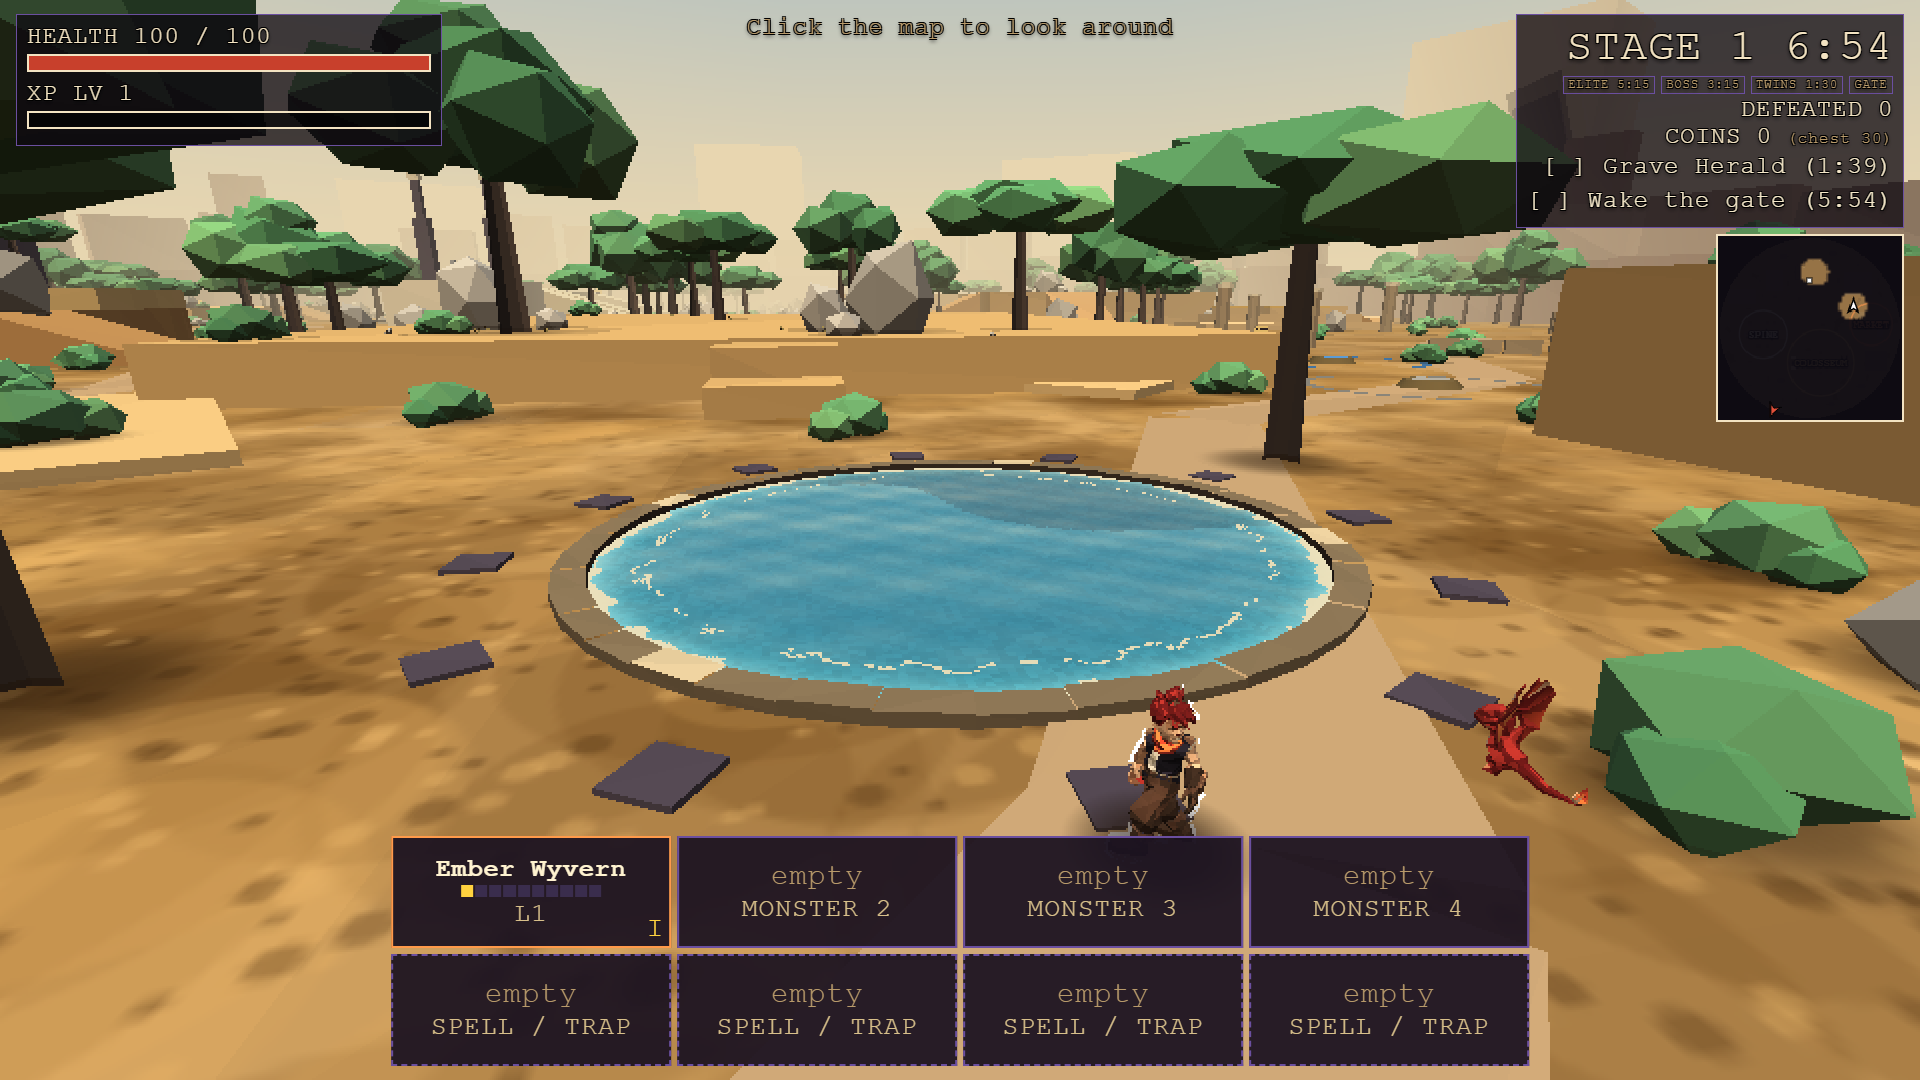
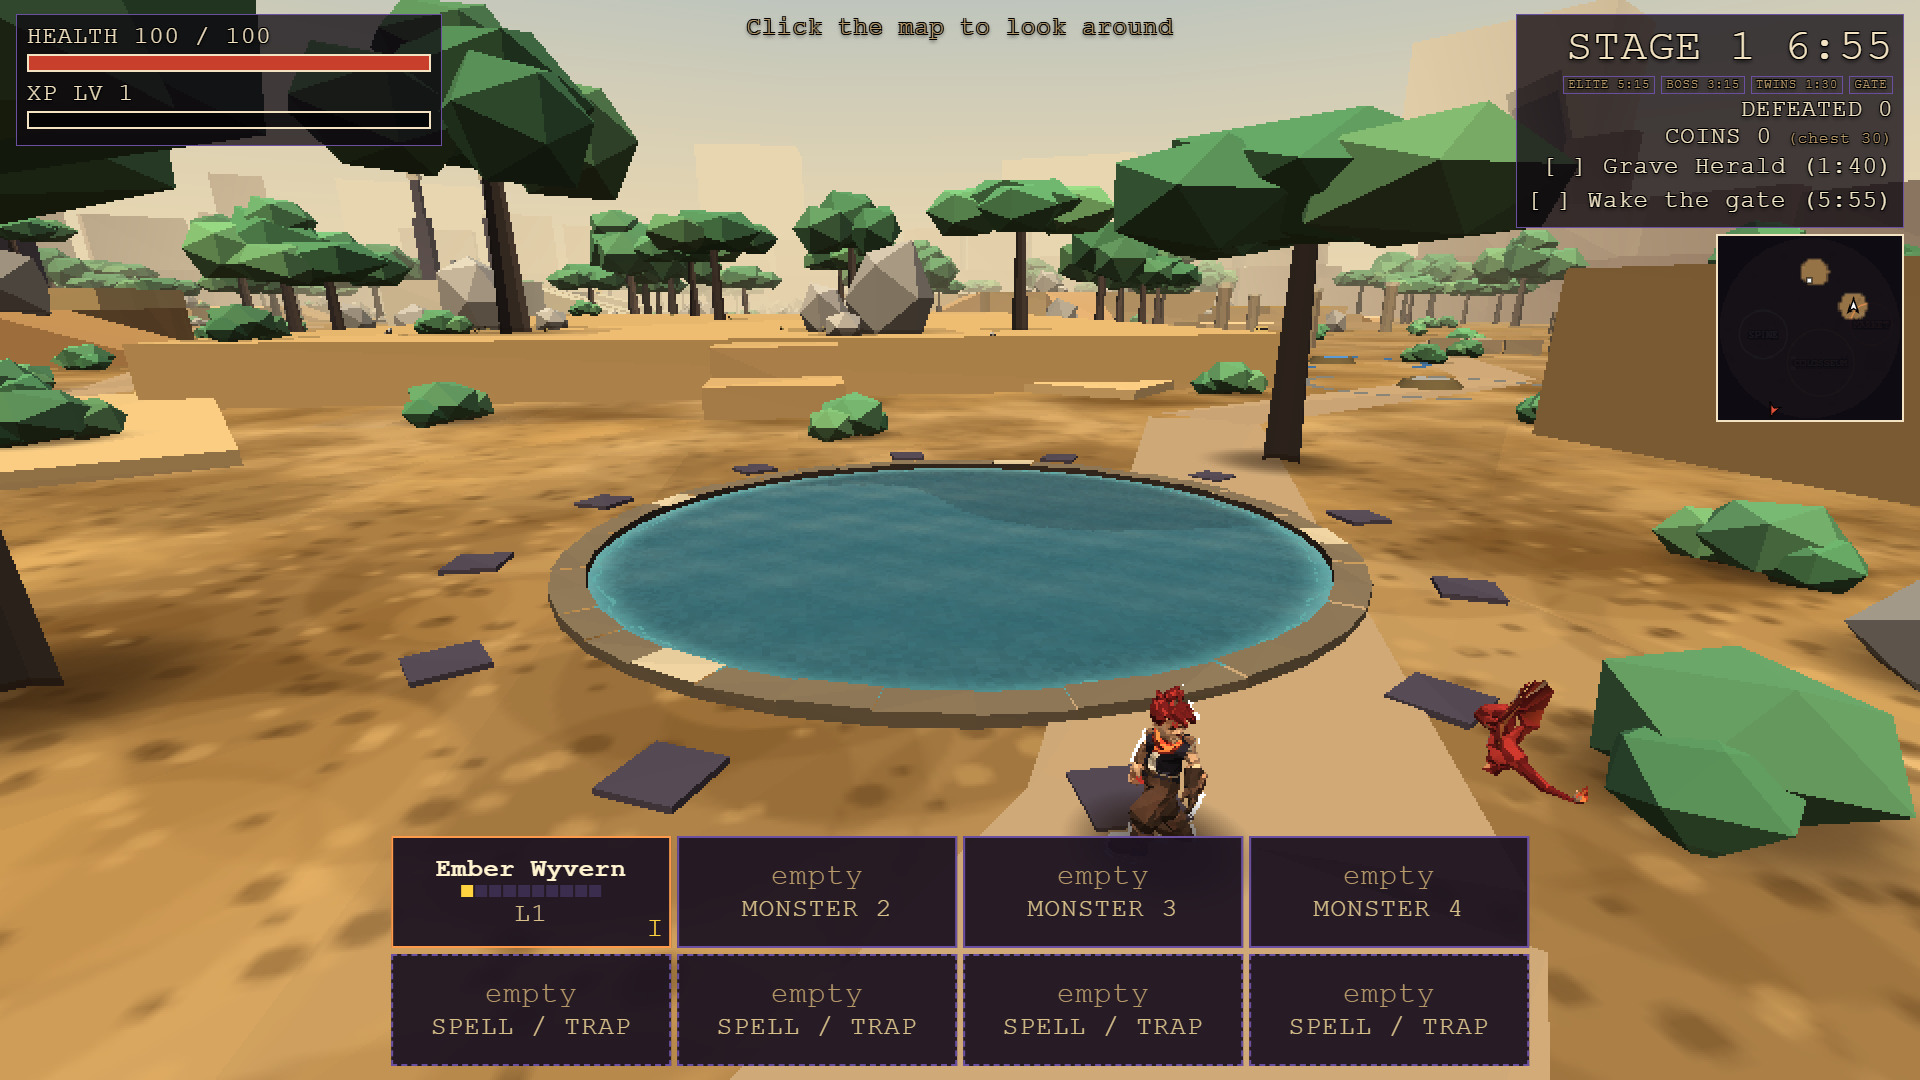
Colour corrections: deep blue-teal Stage 1 water, thin foam, enemy stand-ins from the enemy palette
Stage 1 water is now a deep blue-teal (body 2c5c60, deep 1f4f5a, light tone 62aea8 only in the glitter and shallow edge) with the sky reflection halved; measured against XP cyan 46e0ff the nearest water pixel is 29 delta E, the first percentile 39.5. Foam is a thin broken line lapping at the rim. Every swarm kind and boss stand-in colour comes from the enemy palette (dust 4a4034 6e604c 9a8a70, grave 2a3038 4a5260 7a8290); BOSS_COLORS in data/enemies.js; new test/enemycolors.test.js fails if any enemy or boss base colour is within 20 delta E of gold, XP cyan, violet, danger red or white. Palette strength 0 and 1 pictures for all three stages in design/screens/engine. Reserved colours through the lookup table: exact values come back with delta E 0 on all three stages.

Claude-Session: https://claude.ai/code/session_01G4m5sPDpcSeznt8KShqd9B

diff --git a/duelsummoner/src/data/enemies.js b/duelsummoner/src/data/enemies.js
@@ -3,17 +3,19 @@
 import { SCALE } from './scale.js';
 const R = k => SCALE.swarm[k].r;                                   // hit and contact radius come from the one SCALE table
 export const KINDS = {
-  husk:   { id: 0, name: 'Dust Husk',   hp: 4,  speed: 4.2, touch: 8, radius: R('husk'), reach: 1.45, color: 0x5a6b4a, scale: [1, 1.25, 1], eye: true },
-  runner: { id: 1, name: 'Husk Runner', hp: 2,  speed: 7.0, touch: 5, radius: R('runner'), reach: 1.3, color: 0xa8683a, scale: [0.7, 1.0, 0.7], eye: true },
-  seer:   { id: 2, name: 'Glass Seer',  hp: 8,  speed: 2.5, touch: 0, radius: R('seer'), reach: 1.2, color: 0x7aa8c8, scale: [0.8, 1.8, 0.8],
+  husk:   { id: 0, name: 'Dust Husk',   hp: 4,  speed: 4.2, touch: 8, radius: R('husk'), reach: 1.45, color: 0x6e604c, scale: [1, 1.25, 1], eye: true },
+  runner: { id: 1, name: 'Husk Runner', hp: 2,  speed: 7.0, touch: 5, radius: R('runner'), reach: 1.3, color: 0x9a8a70, scale: [0.7, 1.0, 0.7], eye: true },
+  seer:   { id: 2, name: 'Glass Seer',  hp: 8,  speed: 2.5, touch: 0, radius: R('seer'), reach: 1.2, color: 0x7a8290, scale: [0.8, 1.8, 0.8],
             shot: { dmg: 9, every: 3.4, telegraph: 0.8, speed: 20, life: 1.1, radius: 0.8, keepMin: 8, keepMax: 14, range: 18, width: 0.9 } },   // was dmg 12, every 2.6, speed 26
-  golem:  { id: 3, name: 'Ram Golem',   hp: 30, speed: 3.0, touch: 0, radius: R('golem'), reach: 1.6, color: 0x8a8278, scale: [1.5, 1.3, 1.5],
+  golem:  { id: 3, name: 'Ram Golem',   hp: 30, speed: 3.0, touch: 0, radius: R('golem'), reach: 1.6, color: 0x4a5260, scale: [1.5, 1.3, 1.5],
             rush: { dmg: 25, speed: 16, telegraph: 1.0, duration: 1.0, cooldown: 6, trigger: 18, width: 2.6 } },
-  bloat:  { id: 4, name: 'Sand Bloat',  hp: 10, speed: 3.5, touch: 0, radius: R('bloat'), reach: 1.5, color: 0xd88a3a, scale: [1.3, 1.1, 1.3],
+  bloat:  { id: 4, name: 'Sand Bloat',  hp: 10, speed: 3.5, touch: 0, radius: R('bloat'), reach: 1.5, color: 0x4a4034, scale: [1.3, 1.1, 1.3],
             blast: { radius: 3, dmg: 20, fuse: 0.7, trigger: 2.4 } },
-  hunter: { id: 6, name: 'Overtime Hunter', hp: 12, speed: 6.0, touch: 10, radius: R('hunter'), reach: 1.5, color: 0xb03060, scale: [0.95, 1.5, 0.95], eye: true },
-  scarab: { id: 5, name: 'Tomb Scarab', hp: 5,  speed: 5.0, touch: 6, radius: R('scarab'), reach: 1.3, color: 0xd8b24a, scale: [0.8, 0.4, 1.0], fly: true, hover: 1.2 }
+  hunter: { id: 6, name: 'Overtime Hunter', hp: 12, speed: 6.0, touch: 10, radius: R('hunter'), reach: 1.5, color: 0x2a3038, scale: [0.95, 1.5, 0.95], eye: true },
+  scarab: { id: 5, name: 'Tomb Scarab', hp: 5,  speed: 5.0, touch: 6, radius: R('scarab'), reach: 1.3, color: 0x7a8290, scale: [0.8, 0.4, 1.0], fly: true, hover: 1.2 }
 };
+// the boss stand-ins' colours, from the enemy palette only (dust, grave, bone): gold, XP cyan, violet and danger red are never an enemy colour
+export const BOSS_COLORS = { warden: { body: 0x4a5260, head: 0x9a8a70, shield: 0x7a8290 }, idol: { body: 0x6e604c, ear: 0x2a3038 }, pharaoh: { robe: 0x2a3038, head: 0x9a8a70, crown: 0x4a5260, blade: 0x7a8290 } };
 export const KIND_LIST = Object.values(KINDS).sort((a, b) => a.id - b.id);   // indexed by id
 
 export const SPECIALS = {

diff --git a/duelsummoner/src/view/actors.js b/duelsummoner/src/view/actors.js
@@ -1,7 +1,7 @@
 // Everything that moves in the scene: duelist, field monsters, the swarm (instanced per kind), elites and the boss,
 // telegraphs and effects, pickups. Positions are blended between the last two sim ticks so any refresh rate looks smooth.
 import { CFG } from '../data/config.js';
-import { KIND_LIST } from '../data/enemies.js';
+import { KIND_LIST, BOSS_COLORS as BC } from '../data/enemies.js';
 import { MONSTERS, FUSIONS, formOf } from '../data/cards.js';
 import { MAP } from '../data/map.js';
 import { SCALE, summonSize } from '../data/scale.js';
@@ -189,19 +189,19 @@ export class Actors {
   _specialMesh(sp) {
     const g = new T.Group(), r = sp.radius;
     if (sp.kind === 'warden') {
-      const body = new T.Mesh(new T.BoxGeometry(1.8, 2.6, 1.4), lambert(0x8a8278)); body.position.y = 1.3;
-      const head = new T.Mesh(new T.BoxGeometry(0.9, 0.8, 0.9), lambert(0xb9a98a)); head.position.y = 3.0;
-      const shield = new T.Mesh(new T.BoxGeometry(2.6, 3.0, 0.3), lambert(0xe0b765)); shield.position.set(0, 1.6, 1.0);
+      const body = new T.Mesh(new T.BoxGeometry(1.8, 2.6, 1.4), lambert(BC.warden.body)); body.position.y = 1.3;
+      const head = new T.Mesh(new T.BoxGeometry(0.9, 0.8, 0.9), lambert(BC.warden.head)); head.position.y = 3.0;
+      const shield = new T.Mesh(new T.BoxGeometry(2.6, 3.0, 0.3), lambert(BC.warden.shield)); shield.position.set(0, 1.6, 1.0);
       g.add(body, head, shield);
     } else if (sp.kind === 'idol') {
-      const body = new T.Mesh(new T.OctahedronGeometry(0.95, 0), lambert(0xc9a04a)); body.position.y = 1.0; body.scale.set(0.8, 1.2, 1.4);
-      const e1 = cone(0.18, 0.7, 0x4a3a2a), e2 = cone(0.18, 0.7, 0x4a3a2a); e1.rotation.x = e2.rotation.x = 0; e1.position.set(-0.3, 2.1, 0.5); e2.position.set(0.3, 2.1, 0.5);
+      const body = new T.Mesh(new T.OctahedronGeometry(0.95, 0), lambert(BC.idol.body)); body.position.y = 1.0; body.scale.set(0.8, 1.2, 1.4);
+      const e1 = cone(0.18, 0.7, BC.idol.ear), e2 = cone(0.18, 0.7, BC.idol.ear); e1.rotation.x = e2.rotation.x = 0; e1.position.set(-0.3, 2.1, 0.5); e2.position.set(0.3, 2.1, 0.5);
       g.add(body, e1, e2);
     } else {
-      const robe = new T.Mesh(new T.ConeGeometry(1.5, 4.2, 7), lambert(0x6a5a8a)); robe.position.y = 2.1;
-      const head = new T.Mesh(new T.BoxGeometry(0.9, 1.0, 0.9), lambert(0xd8c8a0)); head.position.y = 4.5;
-      const crown = new T.Mesh(new T.ConeGeometry(0.7, 0.9, 5), lambert(0xe8b84a)); crown.position.y = 5.3;
-      const blade = new T.Mesh(new T.BoxGeometry(0.2, 0.2, 4.2), lambert(0xe8e8f0)); blade.position.set(1.3, 2.6, 2.0);
+      const robe = new T.Mesh(new T.ConeGeometry(1.5, 4.2, 7), lambert(BC.pharaoh.robe)); robe.position.y = 2.1;
+      const head = new T.Mesh(new T.BoxGeometry(0.9, 1.0, 0.9), lambert(BC.pharaoh.head)); head.position.y = 4.5;
+      const crown = new T.Mesh(new T.ConeGeometry(0.7, 0.9, 5), lambert(BC.pharaoh.crown)); crown.position.y = 5.3;
+      const blade = new T.Mesh(new T.BoxGeometry(0.2, 0.2, 4.2), lambert(BC.pharaoh.blade)); blade.position.set(1.3, 2.6, 2.0);
       g.add(robe, head, crown, blade);
     }
     g.userData.parts = g.children.slice();

diff --git a/duelsummoner/src/view/water.js b/duelsummoner/src/view/water.js
@@ -42,15 +42,15 @@ void main() {
   vec3 c = mix(bed, uWatS, (1.0 - exp(-dep * 2.6)) * 0.6); c = mix(c, uWatD, 1.0 - exp(-dep * 1.05));
   vec3 Rf = reflect(V, n); Rf.y = abs(Rf.y) + 0.02; Rf = normalize(Rf);
   vec3 rc = skyBase(Rf);
-  float F0 = 0.07; c = mix(c, rc, F0 + (1.0 - F0) * pow(1.0 - max(dot(n, -V), 0.0), 4.0));
+  float F0 = 0.07; c = mix(c, rc, 0.5 * (F0 + (1.0 - F0) * pow(1.0 - max(dot(n, -V), 0.0), 4.0)));
   float tw = hsh(floor(p * 8.0) + floor(uT * 10.0) * vec2(7.0, 3.0)), lobe = pow(max(dot(normalize(Rf.xz + 1e-5), normalize(uSunD.xz)), 0.0), 18.0) * smoothstep(0.0, 0.5, 1.0 - Rf.y);
-  c += mix(uSunK, uSkyH, 0.45) * (step(1.0 - lobe * (0.55 + 0.5 * g), tw) * 1.1 + step(0.9985, tw) * 0.3);      // sun glitter: a band toward the sun, twinkling per texel, in the light tone of the sky
+  c += uWatL * (step(1.0 - lobe * (0.55 + 0.5 * g), tw) * 0.9 + step(0.9985, tw) * 0.25);      // sun glitter: a band toward the sun, twinkling per texel, in the light tone of the sky
   c += uWatS * 0.16 * step(0.55, g);                                                           // a gust shows as a paler patch
   float fn = N(p * 0.19 + vec2(4.0, 2.0) / 512.0 * uT).r, lap = 0.5 + 0.5 * sin(uT * 1.4 + dep * 18.0 + fn * 4.0);
-  float foam = step(dep + (fn - 0.5) * 0.12, 0.03 + 0.05 * lap);                               // the foam line laps in and out at the rim
-  foam = max(foam, step(abs(dep - 0.3 - 0.1 * lap + (fn - 0.5) * 0.2), 0.024) * step(0.5, fn) * step(0.35, lap));
+  float fb = N(p * 0.45 + vec2(9.0, 5.0) / 512.0 * uT).g;                                       // a thin broken line (1 to 2 game pixels) that laps in and out at the rim
+  float foam = step(abs(dep + (fn - 0.5) * 0.05 - (0.04 + 0.05 * lap)), 0.011) * step(0.32, fb);
   c *= 1.0 + max(rf, -1.0) * step(rf, 0.0) * 0.3; foam = max(foam, clamp(rf, 0.0, 1.0) * 0.55);
-  c = mix(c, max(uSunK * 0.55 + uSkyH * 0.5, uSkyH * 0.85) * vec3(0.96, 0.98, 1.0), foam * 0.9);
+  c = mix(c, uWatL, foam * 0.85);
   gl_FragColor = vec4(c, 1.0);
   #include <fog_fragment>
 }`;

diff --git a/duelsummoner/test/enemycolors.test.js b/duelsummoner/test/enemycolors.test.js
@@ -1,0 +1,13 @@
+// Enemy colours (art-direction rule): gold, XP cyan, violet and danger red are reserved and never an enemy colour. Every swarm kind's and every boss stand-in's base colour must be at least 20 delta E from each of them.
+import test from 'node:test'; import assert from 'node:assert/strict';
+import { KIND_LIST, BOSS_COLORS } from '../src/data/enemies.js';
+const lab = c => { const f = v => { v /= 255; return v > 0.04045 ? Math.pow((v + 0.055) / 1.055, 2.4) : v / 12.92; }, r = f((c >> 16) & 255), g = f((c >> 8) & 255), b = f(c & 255); const X = (0.4124 * r + 0.3576 * g + 0.1805 * b) / 0.95047, Y = 0.2126 * r + 0.7152 * g + 0.0722 * b, Z = (0.0193 * r + 0.1192 * g + 0.9505 * b) / 1.08883, h = t => (t > 0.008856 ? Math.cbrt(t) : 7.787 * t + 16 / 116); return [116 * h(Y) - 16, 500 * (h(X) - h(Y)), 200 * (h(Y) - h(Z))]; };
+const dE = (a, b) => { const p = lab(a), q = lab(b); return Math.sqrt((p[0] - q[0]) ** 2 + (p[1] - q[1]) ** 2 + (p[2] - q[2]) ** 2); };
+const RESERVED = { gold: 0xe0b765, goldLight: 0xfff0b8, xp: 0x46e0ff, violet: 0xb26bff, violetLight: 0xf4ecff, danger: 0xff3b30, white: 0xffffff };
+test('no enemy kind or boss stand-in colour is within 20 delta E of a reserved colour', () => {
+  const all = KIND_LIST.map(k => [k.name, k.color]); for (const [b, o] of Object.entries(BOSS_COLORS)) for (const [p, c] of Object.entries(o)) all.push([b + '.' + p, c]);
+  for (const [n, c] of all) for (const [rn, rc] of Object.entries(RESERVED)) assert.ok(dE(c, rc) >= 20, n + ' ' + c.toString(16) + ' is ' + dE(c, rc).toFixed(1) + ' from ' + rn);
+});
+test('every swarm kind keeps its own look: no two kinds share both colour and silhouette scale', () => {
+  const seen = new Set(); for (const k of KIND_LIST) { const key = k.color + ':' + k.scale.join(','); assert.ok(!seen.has(key), k.name + ' repeats another kind'); seen.add(key); }
+});

diff --git a/duelsummoner/src/data/look.js b/duelsummoner/src/data/look.js
@@ -2,7 +2,7 @@
 // ramp: null keeps each primitive's own colour; otherwise a primitive's original colour (p.c0) is mapped by its brightness onto this ramp of palette colours, dark to light.
 // sky: top, horizon (also the fog colour) and below-the-horizon colours.
 export const STAGE_LOOK = [
-  { name: 'ruins', ramp: null, sand: [0xc8a46c, 0xcaa978, 0xc09c66], road: 0xb09470, rim: [0xbca494, 0xd0bcaa, 0xbca494], mesa: 0xd4c4ac, skirt: 0xc8a46c, landmark: [0xe6dcc0, 0x4a4250], seal: [0.18, 0.10, 0.32], sky: [0x8fb2cc, 0xe8d6b0, 0xd9c29a], fogNear: 80, fogFar: 300, water: [0x32939f, 0x14395a, 0x7fc9c9], actor: null },
+  { name: 'ruins', ramp: null, sand: [0xc8a46c, 0xcaa978, 0xc09c66], road: 0xb09470, rim: [0xbca494, 0xd0bcaa, 0xbca494], mesa: 0xd4c4ac, skirt: 0xc8a46c, landmark: [0xe6dcc0, 0x4a4250], seal: [0.18, 0.10, 0.32], sky: [0x8fb2cc, 0xe8d6b0, 0xd9c29a], fogNear: 80, fogFar: 300, water: [0x2c5c60, 0x1f4f5a, 0x62aea8], actor: null },
   // Stage 2, Sealed Catacombs: slate floor, wet stone edge, old bone and rust. No sun, a pale cold haze.
   { name: 'catacombs', ramp: [0x0f1a26, 0x23384d, 0x3c5a73, 0x6e8aa0, 0x9a917c, 0xd9d0b8], sand: [0x23384d, 0x2a4259, 0x1d3043], road: 0x3c5a73, rim: [0x23384d, 0x3c5a73, 0x1b2c3e], mesa: 0x2a4259, skirt: 0x0f1a26, landmark: [0xd9d0b8, 0x23384d], seal: [0.18, 0.10, 0.32], sky: [0x23384d, 0x6e8aa0, 0x0f1a26], fogNear: 50, fogFar: 230, water: [0x3f5f52, 0x1b2c3e, 0x6f9a86], actor: { lift: [0.20, 0.27, 0.25], key: [0.16, 0.22, 0.20] } },
   // Stage 3, Vault of the Last Duel: basalt floor under a roof lost in black, ash-gold, moon-white and crimson. No violet in the scenery; the seal core is pale so it reads on dark ground.
